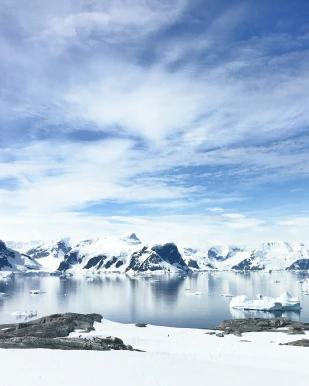
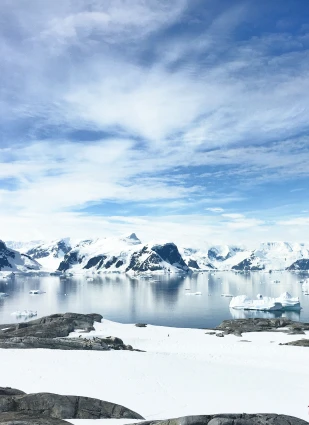
стили блока с круизами для десктопной версии

diff --git a/source/index.html b/source/index.html
@@ -104,12 +104,16 @@
           <h2 class="cruises__title">Ближайшие круизы</h2>
 
           <ul class="cruises__list">
-            <li class="cruises__item card">
+            <li class="cruises__item card card--astoriya">
               <h3 class="card__name">Круиз &ldquo;Астория&rdquo;</h3>
-              <picture>
-                <source type="image/webp" srcset="img/content/cruise-astoriya.webp 1x, img/content/cruise-astoriya@2x.webp 2x">
-                <img class="card__img" src="img/content/cruise-astoriya.jpg" srcset="img/content/cruise-astoriya@2x.jpg 2x" width="260" height="386" alt="Ледяные горы">
-              </picture>
+              <div class="card__img-box">
+                <div class="card__overlay"></div>
+                <picture>
+                  <source type="image/webp" srcset="img/content/cruise-astoriya.webp 1x, img/content/cruise-astoriya@2x.webp 2x">
+                  <img class="card__img" src="img/content/cruise-astoriya.jpg" srcset="img/content/cruise-astoriya@2x.jpg 2x" width="400" height="386" alt="Ледяные горы">
+                </picture>
+              </div>
+
               <div class="card__box">
                 <dl class="card__list">
                   <dt class="card__item">Маршрут</dt>
@@ -128,12 +132,16 @@
               </div>
             </li>
 
-            <li class="cruises__item card">
+            <li class="cruises__item card card--elain">
               <h3 class="card__name">Круиз &ldquo;Элайн&rdquo;</h3>
-              <picture>
-                <source type="image/webp" srcset="img/content/cruise-astoriya.webp 1x, img/content/cruise-astoriya@2x.webp 2x">
-                <img class="card__img" src="img/content/cruise-astoriya.jpg" srcset="img/content/cruise-astoriya@2x.jpg 2x" width="260" height="386" alt="Ледяные горы">
-              </picture>
+              <div class="card__img-box">
+                <div class="card__overlay"></div>
+                <picture>
+                  <source type="image/webp" srcset="img/content/cruise-astoriya.webp 1x, img/content/cruise-astoriya@2x.webp 2x">
+                  <img class="card__img" src="img/content/cruise-astoriya.jpg" srcset="img/content/cruise-astoriya@2x.jpg 2x" width="400" height="386" alt="Ледяные горы">
+                </picture>
+              </div>
+
               <div class="card__box">
                 <dl class="card__list">
                   <dt class="card__item">Маршрут</dt>
@@ -152,12 +160,16 @@
               </div>
             </li>
 
-            <li class="cruises__item card">
+            <li class="cruises__item card card--atlantis">
               <h3 class="card__name">Круиз &ldquo;Атлантис&rdquo;</h3>
-              <picture>
-                <source type="image/webp" srcset="img/content/cruise-atlantis.webp 1x, img/content/cruise-atlantis@2x.webp 2x">
-                <img class="card__img" src="img/content/cruise-atlantis.jpg" srcset="img/content/cruise-atlantis@2x.jpg 2x" width="260" height="386" alt="Ледяные глыбы в воде">
-              </picture>
+              <div class="card__img-box">
+                <div class="card__overlay"></div>
+                <picture>
+                  <source type="image/webp" srcset="img/content/cruise-atlantis.webp 1x, img/content/cruise-atlantis@2x.webp 2x">
+                  <img class="card__img" src="img/content/cruise-atlantis.jpg" srcset="img/content/cruise-atlantis@2x.jpg 2x" width="309" height="386" alt="Ледяные глыбы в воде">
+                </picture>
+              </div>
+
               <div class="card__box">
                 <dl class="card__list">
                   <dt class="card__item">Маршрут</dt>
@@ -176,12 +188,16 @@
               </div>
             </li>
 
-            <li class="cruises__item card">
+            <li class="cruises__item card card--odysseus">
               <h3 class="card__name">Круиз &ldquo;Одиссей&rdquo;</h3>
-              <picture>
-                <source type="image/webp" srcset="img/content/cruise-odysseus.webp 1x, img/content/cruise-odysseus@2x.webp 2x">
-                <img class="card__img" src="img/content/cruise-odysseus.jpg" srcset="img/content/cruise-odysseus@2x.jpg 2x" width="260" height="386" alt="Ледяные горы, вода и облака">
-              </picture>
+              <div class="card__img-box">
+                <div class="card__overlay"></div>
+                <picture>
+                  <source type="image/webp" srcset="img/content/cruise-odysseus.webp 1x, img/content/cruise-odysseus@2x.webp 2x">
+                  <img class="card__img" src="img/content/cruise-odysseus.jpg" srcset="img/content/cruise-odysseus@2x.jpg 2x" width="309" height="425" alt="Ледяные горы, вода и облака">
+                </picture>
+              </div>
+
               <div class="card__box">
                 <dl class="card__list">
                   <dt class="card__item">Маршрут</dt>
@@ -200,12 +216,16 @@
               </div>
             </li>
 
-            <li class="cruises__item card">
+            <li class="cruises__item card card--olimpiya">
               <h3 class="card__name">Круиз &ldquo;Олимпия&rdquo;</h3>
-              <picture>
-                <source type="image/webp" srcset="img/content/cruise-olimpiya.webp 1x, img/content/cruise-olimpiya@2x.webp 2x">
-                <img class="card__img" src="img/content/cruise-olimpiya.jpg" srcset="img/content/cruise-olimpiya@2x.jpg 2x" width="260" height="386" alt="Много пингвинов на фоне айсбергов">
-              </picture>
+              <div class="card__img-box">
+                <div class="card__overlay"></div>
+                <picture>
+                  <source type="image/webp" srcset="img/content/cruise-olimpiya.webp 1x, img/content/cruise-olimpiya@2x.webp 2x">
+                  <img class="card__img" src="img/content/cruise-olimpiya.jpg" srcset="img/content/cruise-olimpiya@2x.jpg 2x" width="330" height="400" alt="Много пингвинов на фоне айсбергов">
+                </picture>
+              </div>
+
               <div class="card__box">
                 <dl class="card__list">
                   <dt class="card__item">Маршрут</dt>
@@ -224,12 +244,16 @@
               </div>
             </li>
 
-            <li class="cruises__item card">
+            <li class="cruises__item card card--aurora">
               <h3 class="card__name">Круиз &ldquo;Аврора&rdquo;</h3>
-              <picture>
-                <source type="image/webp" srcset="img/content/cruise-aurora.webp 1x, img/content/cruise-aurora@2x.webp 2x">
-                <img class="card__img" src="img/content/cruise-aurora.jpg" srcset="img/content/cruise-aurora@2x.jpg 2x" width="260" height="386" alt="Лед, скалы, вода, белое небо">
-              </picture>
+              <div class="card__img-box">
+                <div class="card__overlay"></div>
+                <picture>
+                  <source type="image/webp" srcset="img/content/cruise-aurora.webp 1x, img/content/cruise-aurora@2x.webp 2x">
+                  <img class="card__img" src="img/content/cruise-aurora.jpg" srcset="img/content/cruise-aurora@2x.jpg 2x" width="320" height="386" alt="Лед, скалы, вода, белое небо">
+                </picture>
+              </div>
+
               <div class="card__box">
                 <dl class="card__list">
                   <dt class="card__item">Маршрут</dt>
@@ -248,12 +272,16 @@
               </div>
             </li>
 
-            <li class="cruises__item card">
+            <li class="cruises__item card card--leonor">
               <h3 class="card__name">Круиз &ldquo;Леонор&rdquo;</h3>
-              <picture>
-                <source type="image/webp" srcset="img/content/cruise-leonor.webp 1x, img/content/cruise-leonor@2x.webp 2x">
-                <img class="card__img" src="img/content/cruise-leonor.jpg" srcset="img/content/cruise-leonor@2x.jpg 2x" width="260" height="386" alt="Лодка на фоне ледяных гор">
-              </picture>
+              <div class="card__img-box">
+                <div class="card__overlay"></div>
+                <picture>
+                  <source type="image/webp" srcset="img/content/cruise-leonor.webp 1x, img/content/cruise-leonor@2x.webp 2x">
+                  <img class="card__img" src="img/content/cruise-leonor.jpg" srcset="img/content/cruise-leonor@2x.jpg 2x" width="309" height="386" alt="Лодка на фоне ледяных гор">
+                </picture>
+              </div>
+
               <div class="card__box">
                 <dl class="card__list">
                   <dt class="card__item">Маршрут</dt>
@@ -272,12 +300,16 @@
               </div>
             </li>
 
-            <li class="cruises__item card">
+            <li class="cruises__item card card--minion">
               <h3 class="card__name">Круиз &ldquo;Минион - 1&rdquo;</h3>
-              <picture>
-                <source type="image/webp" srcset="img/content/cruise-minion-1.webp 1x, img/content/cruise-minion-1@2x.webp 2x">
-                <img class="card__img" src="img/content/cruise-minion-1.jpg" srcset="img/content/cruise-minion-1@2x.jpg 2x" width="260" height="386" alt="Лед, вода, люди на берегу">
-              </picture>
+              <div class="card__img-box">
+                <div class="card__overlay"></div>
+                <picture>
+                  <source type="image/webp" srcset="img/content/cruise-minion-1.webp 1x, img/content/cruise-minion-1@2x.webp 2x">
+                  <img class="card__img" src="img/content/cruise-minion-1.jpg" srcset="img/content/cruise-minion-1@2x.jpg 2x" width="309" height="386" alt="Лед, вода, люди на берегу">
+                </picture>
+              </div>
+
               <div class="card__box">
                 <dl class="card__list">
                   <dt class="card__item">Маршрут</dt>

diff --git a/source/sass/blocks/card.scss b/source/sass/blocks/card.scss
@@ -1,0 +1,149 @@
+.card {
+  background-color: $color-tangaroa;
+  color: $color-alice-blue;
+  display: grid;
+
+  h3 {
+    font-weight: 500;
+    font-size: 18px;
+    line-height: 27px;
+    margin-top: auto;
+    margin-bottom: 22px;
+    margin-left: 30px;
+
+    grid-column: 1 / -1;
+    grid-row: 1 / -1;
+    z-index: 5;
+  }
+
+  dt {
+    font-weight: 500;
+  }
+
+  dd {
+    margin-left: 0;
+    margin-bottom: 11px;
+    color: $color-quartz;
+  }
+}
+
+.card__img-box {
+  position: relative;
+  overflow: hidden;
+  width: 260px;
+  height: 386px;
+
+  grid-column: 1 / -1;
+  grid-row: 1 / -1;
+  z-index: 4;
+
+  .card__overlay {
+    width: 100%;
+    height: 100%;
+    position: relative;
+    z-index: 2;
+    background-image: $tangaroa-to-bottom;
+  }
+
+  img {
+    max-width: none;
+    position: absolute;
+  }
+}
+
+.card__box {
+  background-color: $color-tangaroa;
+  width: 260px;
+  height: 386px;
+  padding: 70px 25px 35px 25px;
+  display: flex;
+  flex-direction: column;
+
+  grid-column: 1 / -1;
+  grid-row: 1 / -1;
+  z-index: 3;
+}
+
+.card__link-booking {
+  font-weight: 600;
+  background-color: $color-alice-blue;
+  color: $color-tangaroa;
+  padding: 10px;
+  margin-top: auto;
+  display: block;
+  text-align: center;
+
+  &:hover,
+  &:focus,
+  &:active {
+    background-color: darken($color-alice-blue, 20%);
+  }
+}
+
+.card--astoriya {
+  img {
+    top: 0;
+    left: -72px;
+  }
+}
+
+.card--elain {
+  img {
+    top: 0;
+    left: -72px;
+  }
+}
+
+.card--atlantis {
+  img {
+    top: 0;
+    left: -25px;
+  }
+}
+
+.card--odysseus {
+  img {
+    top: -28px;
+    left: -28px;
+  }
+}
+
+.card--olimpiya {
+  img {
+    top: -18px;
+    left: 0;
+  }
+}
+
+.card--aurora {
+  img {
+    top: 0;
+    left: -15px;
+  }
+}
+
+.card--leonor {
+  img {
+    top: 0;
+    left: -22px;
+  }
+}
+
+.card--minion {
+  img {
+    top: 0;
+    left: -11px;
+  }
+}
+
+.card:hover,
+.card:focus {
+  h3 {
+    margin: 27px 25px 0 25px;
+    height: min-content;
+  }
+
+  .card__img-box {
+    z-index: 0;
+  }
+}

diff --git a/source/sass/variables.scss b/source/sass/variables.scss
@@ -12,14 +12,15 @@ $color-transparent: rgba(255, 255, 255, 0);
 
 $color-alice-blue: #f9fbfd;
 $color-tangaroa: #011c40;
-$color-tangaroa-rgb: 1, 28, 64;
+// $color-tangaroa-rgb: 1, 28, 64;
 $color-lochmara: #366ead;
 $color-pattens-blue: #dae6f4;
+$color-quartz: #d8d8d9;
 
 
 // Gradient
 
-// $tangaroa-to-bottom: linear-gradient(180deg, rgba(1, 28, 64, 0) 50%, #011c40 100%);
+$tangaroa-to-bottom: linear-gradient(180deg, $color-transparent 50%, $color-tangaroa 100%);
 // $black-to-right: linear-gradient(90deg, rgba(0, 0, 0, 0.75) 0%, rgba(0, 0, 0, 0) 75%);
 
 

diff --git a/source/sass/blocks/cruises.scss b/source/sass/blocks/cruises.scss
@@ -1,0 +1,22 @@
+.cruises {
+  margin-bottom: 120px;
+
+  h2 {
+    font-weight: 600;
+    font-size: 28px;
+    line-height: 42px;
+    margin: 0;
+    margin-bottom: 47px;
+    text-align: center;
+  }
+}
+
+.cruises__list {
+  margin: 0;
+  padding-left: 15px;
+  padding-right: 15px;
+  list-style: none;
+  display: grid;
+  gap: 30px;
+  grid-template-columns: repeat(auto-fill, 260px);
+}

diff --git a/source/sass/blocks/features.scss b/source/sass/blocks/features.scss
@@ -6,6 +6,7 @@
   background-position: center;
   padding-top: 110px;
   padding-bottom: 115px;
+  margin-bottom: 110px;
 
   @include retina {
     background-image: url("../img/back/back-features-desktop@2x.jpg");

diff --git a/source/sass/style.scss b/source/sass/style.scss
@@ -25,6 +25,8 @@
 @import "blocks/promo";
 @import "blocks/description";
 @import "blocks/features";
+@import "blocks/cruises";
+@import "blocks/card";
 
 // ---------------------------------
 
